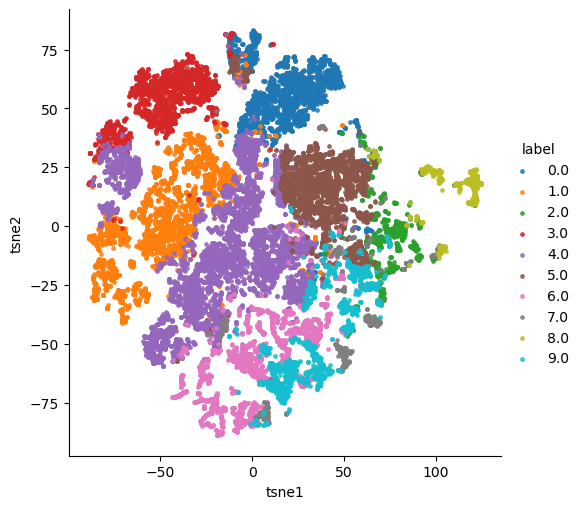
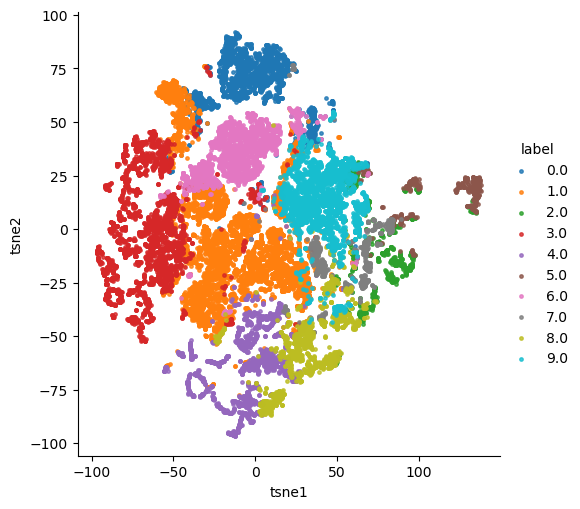
update fix bugs

diff --git a/main.py b/main.py
@@ -110,7 +110,7 @@ if __name__ == "__main__":
     # Output directory
     output_dir = args.output_dir
     dataset = args.dataset
-    outpu_dir = output_dir + dataset + '/'
+    output_dir = output_dir + dataset + '/'
     params['output_dir'] = output_dir
 
     tsne_epochs = args.tsne_epochs
@@ -367,8 +367,8 @@ if __name__ == "__main__":
                                                  shuffle=True, num_workers=workers)
 
         image_dataset_inference = ImageFolder(root=data_dir, transform=None)
-        dataloader_inference = torch.utils.data.DataLoader(image_dataset, batch_size=1,
-                                                           shuffle=True, num_workers=workers)
+        dataloader_inference = torch.utils.data.DataLoader(image_dataset_inference, batch_size=1,
+                                                           shuffle=False, num_workers=workers)
         # Size of data sets
         dataset_size = len(image_dataset)
 

diff --git a/training_functions.py b/training_functions.py
@@ -175,9 +175,6 @@ def train_model(model, dataloader, criteria, optimizers, schedulers, num_epochs,
             output_array = np.asarray(features)
             # labels = np.array(labels)
 
-
-            predictions = km.fit_predict(output_array)
-
             Y = manifold.TSNE(n_components=2, init='pca',
                               random_state=0).fit_transform(output_array)
 
